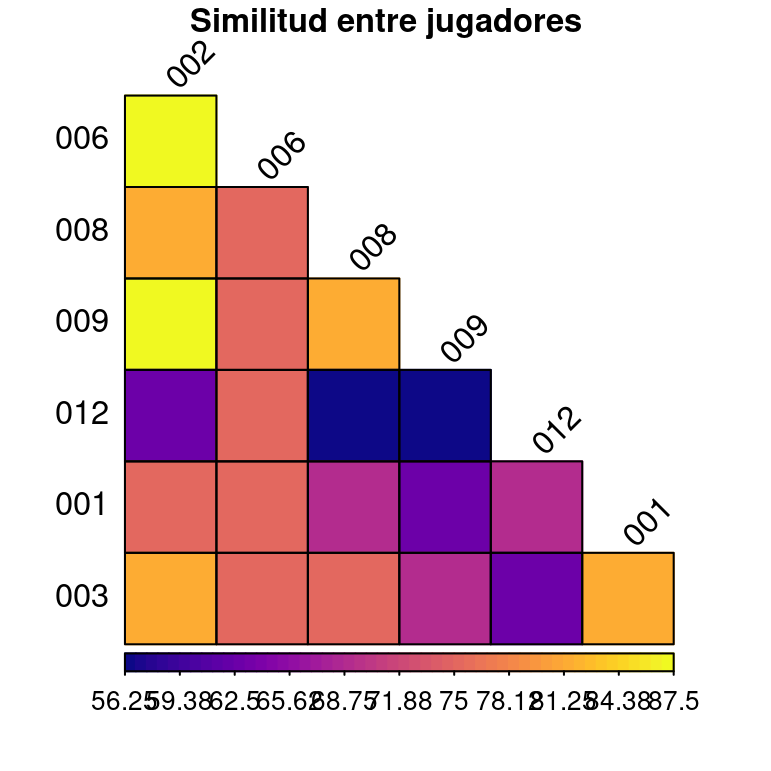
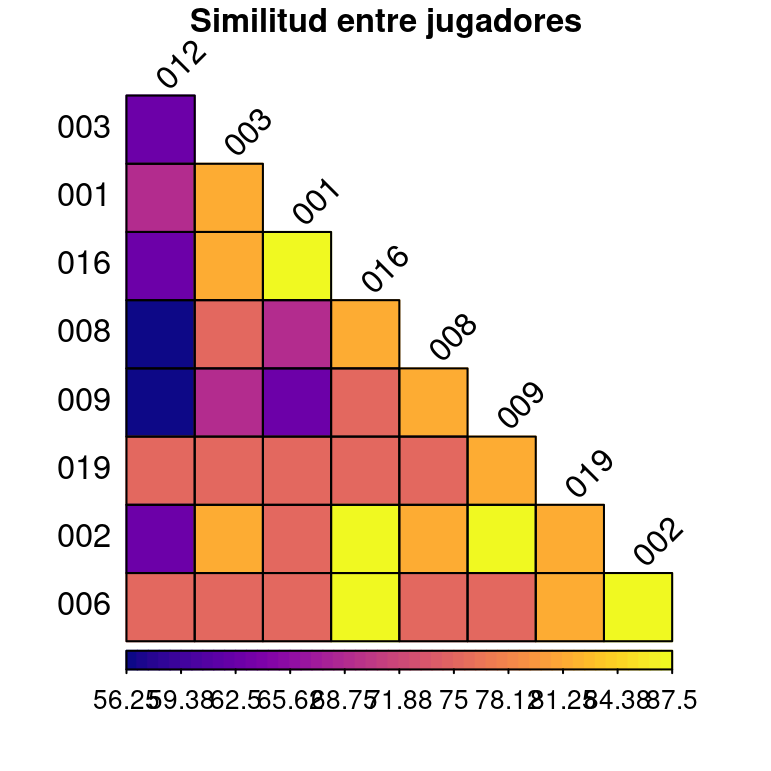
automatic README update

Changed region(s): [[0.0623, 0.0311, 0.9027, 0.9339], [0.716, 0.5292, 0.7471, 0.5603]]

diff --git a/README.md b/README.md
@@ -33,6 +33,8 @@ Este es el repositorio de la quiniela Qatar 2022. Aqui se publicarán las picks 
 | 008                 | Héctor Zepeda               | Ecuador          | Draw            | Netherlands            | USA          | Argentina                 | Denmark            | Mexico           | France              | Croatia            | Germany          | Spain               | Belgium           | Draw                    | Uruguay          | Portugal          | Brazil           |
 | 009                 | Luis Temo Marquez            | Ecuador          | England         | Netherlands            | USA          | Argentina                 | Draw               | Mexico           | France              | Croatia            | Germany          | Spain               | Belgium           | Cameroon                | Uruguay          | Portugal          | Brazil           |
 | 012                 | Ibrahim T                    | Qatar            | England         | Netherlands            | Draw         | Argentina                 | Denmark            | Poland           | France              | Croatia            | Japan            | Spain               | Belgium           | Switzerland             | Korea            | Portugal          | Brazil           |
+| 016                 | Ernie                        | Draw             | England         | Netherlands            | USA          | Argentina                 | Denmark            | Draw             | France              | Croatia            | Germany          | Spain               | Belgium           | Draw                    | Uruguay          | Portugal          | Brazil           |
+| 019                 | Diego Angeles                | Qatar            | England         | Netherlands            | Draw         | Argentina                 | Denmark            | Mexico           | France              | Croatia            | Germany          | Spain               | Belgium           | Cameroon                | Uruguay          | Portugal          | Brazil           |
 ### Gráficos
 
 ![](media/01.picks_stage1.png )
@@ -49,7 +51,7 @@ Este es el top 5 de jugadores que más cambiarán su posición en la tabla tras 
 | numero_participante | Nombre            |
 | ------------------- | ----------------- |
 | 012                 | Ibrahim T         |
-| 001                 | Jonathan          |
 | 009                 | Luis Temo Marquez |
+| 001                 | Jonathan          |
 | 008                 | Héctor Zepeda    |
 | 003                 | Habib             |
